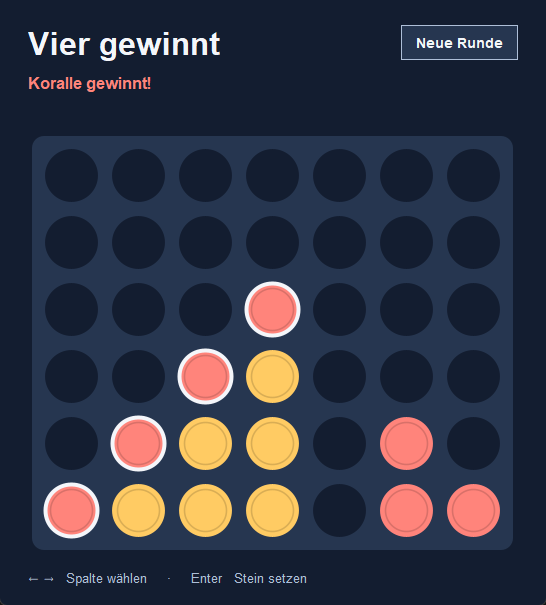
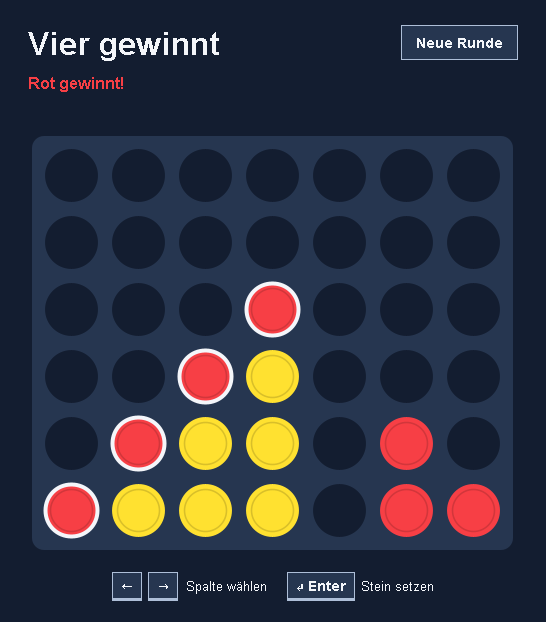
Spielsteine auf Rot und Gelb umstellen und Tastaturhinweise hervorheben

diff --git a/src/VierGewinnt.java b/src/VierGewinnt.java
@@ -7,7 +7,7 @@ import javax.swing.border.EmptyBorder;
 public final class VierGewinnt extends JPanel {
     static final Color NIGHT = new Color(19, 29, 48), PANEL = new Color(38, 54, 80);
     static final Color LIGHT = new Color(244, 246, 250), MUTED = new Color(174, 191, 216);
-    static final Color CORAL = new Color(255, 132, 123), GOLD = new Color(255, 203, 99);
+    static final Color RED = new Color(247, 63, 69), YELLOW = new Color(255, 225, 48);
     private Game game = new Game();
     private final JLabel status = new JLabel();
     private final Board board = new Board();
@@ -42,7 +42,16 @@ public final class VierGewinnt extends JPanel {
         header.add(status, BorderLayout.SOUTH);
         add(header, BorderLayout.NORTH);
         add(board, BorderLayout.CENTER);
-        add(label("← →   Spalte wählen     ·     Enter   Stein setzen", 13, MUTED), BorderLayout.SOUTH);
+        JPanel controls = new JPanel(new FlowLayout(FlowLayout.CENTER, 6, 3));
+        controls.setOpaque(false);
+        controls.add(keycap("←"));
+        controls.add(keycap("→"));
+        JLabel chooseHint = label("Spalte wählen", 13, LIGHT);
+        chooseHint.setBorder(new EmptyBorder(0, 2, 0, 14));
+        controls.add(chooseHint);
+        controls.add(keycap("↵ Enter"));
+        controls.add(label("Stein setzen", 13, LIGHT));
+        add(controls, BorderLayout.SOUTH);
         updateStatus();
     }
 
@@ -53,8 +62,18 @@ public final class VierGewinnt extends JPanel {
         return label;
     }
 
-    private static Color color(int player) { return player == 1 ? CORAL : GOLD; }
-    private static String name(int player) { return player == 1 ? "Koralle" : "Gold"; }
+    private static JLabel keycap(String text) {
+        JLabel key = label(text, 14, LIGHT);
+        key.setFont(key.getFont().deriveFont(Font.BOLD));
+        key.setOpaque(true);
+        key.setBackground(PANEL);
+        key.setBorder(BorderFactory.createCompoundBorder(
+            BorderFactory.createMatteBorder(1, 1, 3, 1, MUTED), new EmptyBorder(3, 8, 3, 8)));
+        return key;
+    }
+
+    private static Color color(int player) { return player == 1 ? RED : YELLOW; }
+    private static String name(int player) { return player == 1 ? "Rot" : "Gelb"; }
 
     private void updateStatus() {
         String text = name(game.player()) + " ist am Zug";

diff --git a/README.md b/README.md
@@ -1,8 +1,8 @@
 # Vier gewinnt
 
-Zwei Personen, ein Rechner, sieben Spalten. Koralle beginnt. Wer zuerst vier eigene Steine in eine Reihe bringt, gewinnt. Waagerecht, senkrecht und diagonal zählen.
+Zwei Personen, ein Rechner, sieben Spalten. Rot beginnt. Wer zuerst vier eigene Steine in eine Reihe bringt, gewinnt. Waagerecht, senkrecht und diagonal zählen.
 
-![Spielfeld mit vier diagonal verbundenen korallfarbenen Steinen](docs/spiel.png)
+![Spielfeld mit vier diagonal verbundenen roten Steinen](docs/spiel.png)
 
 ## Spielen
 
@@ -16,7 +16,7 @@ javac --release 17 -encoding UTF-8 -d out src/*.java
 java -cp out VierGewinnt
 ```
 
-Klicke auf eine Spalte, um einen Stein fallen zu lassen. Mit den Pfeiltasten kannst du die Spalte wechseln und mit Enter setzen. Ist eine Spalte voll, bleibst du am Zug. **Neue Runde** leert das Brett und Koralle beginnt wieder.
+Klicke auf eine Spalte, um einen Stein fallen zu lassen. Mit den Pfeiltasten kannst du die Spalte wechseln und mit Enter setzen. Ist eine Spalte voll, bleibst du am Zug. **Neue Runde** leert das Brett und Rot beginnt wieder.
 
 ## Wie erkennt das Spiel einen Sieg?
 
